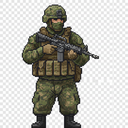
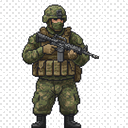
Remove white background from sprites and increase maduro size

diff --git a/src/lib/maduro-survivors/types.ts b/src/lib/maduro-survivors/types.ts
@@ -31,7 +31,7 @@ import maduroImgModule from "./assets/maduro-survivors/maduro.png";
 export class Player implements GameObject {
   position: Vector2;
   velocity: Vector2;
-  radius: number = 25;
+  radius: number = 35;
   speed: number = 200;
   health: number = 100;
   maxHealth: number = 100;
